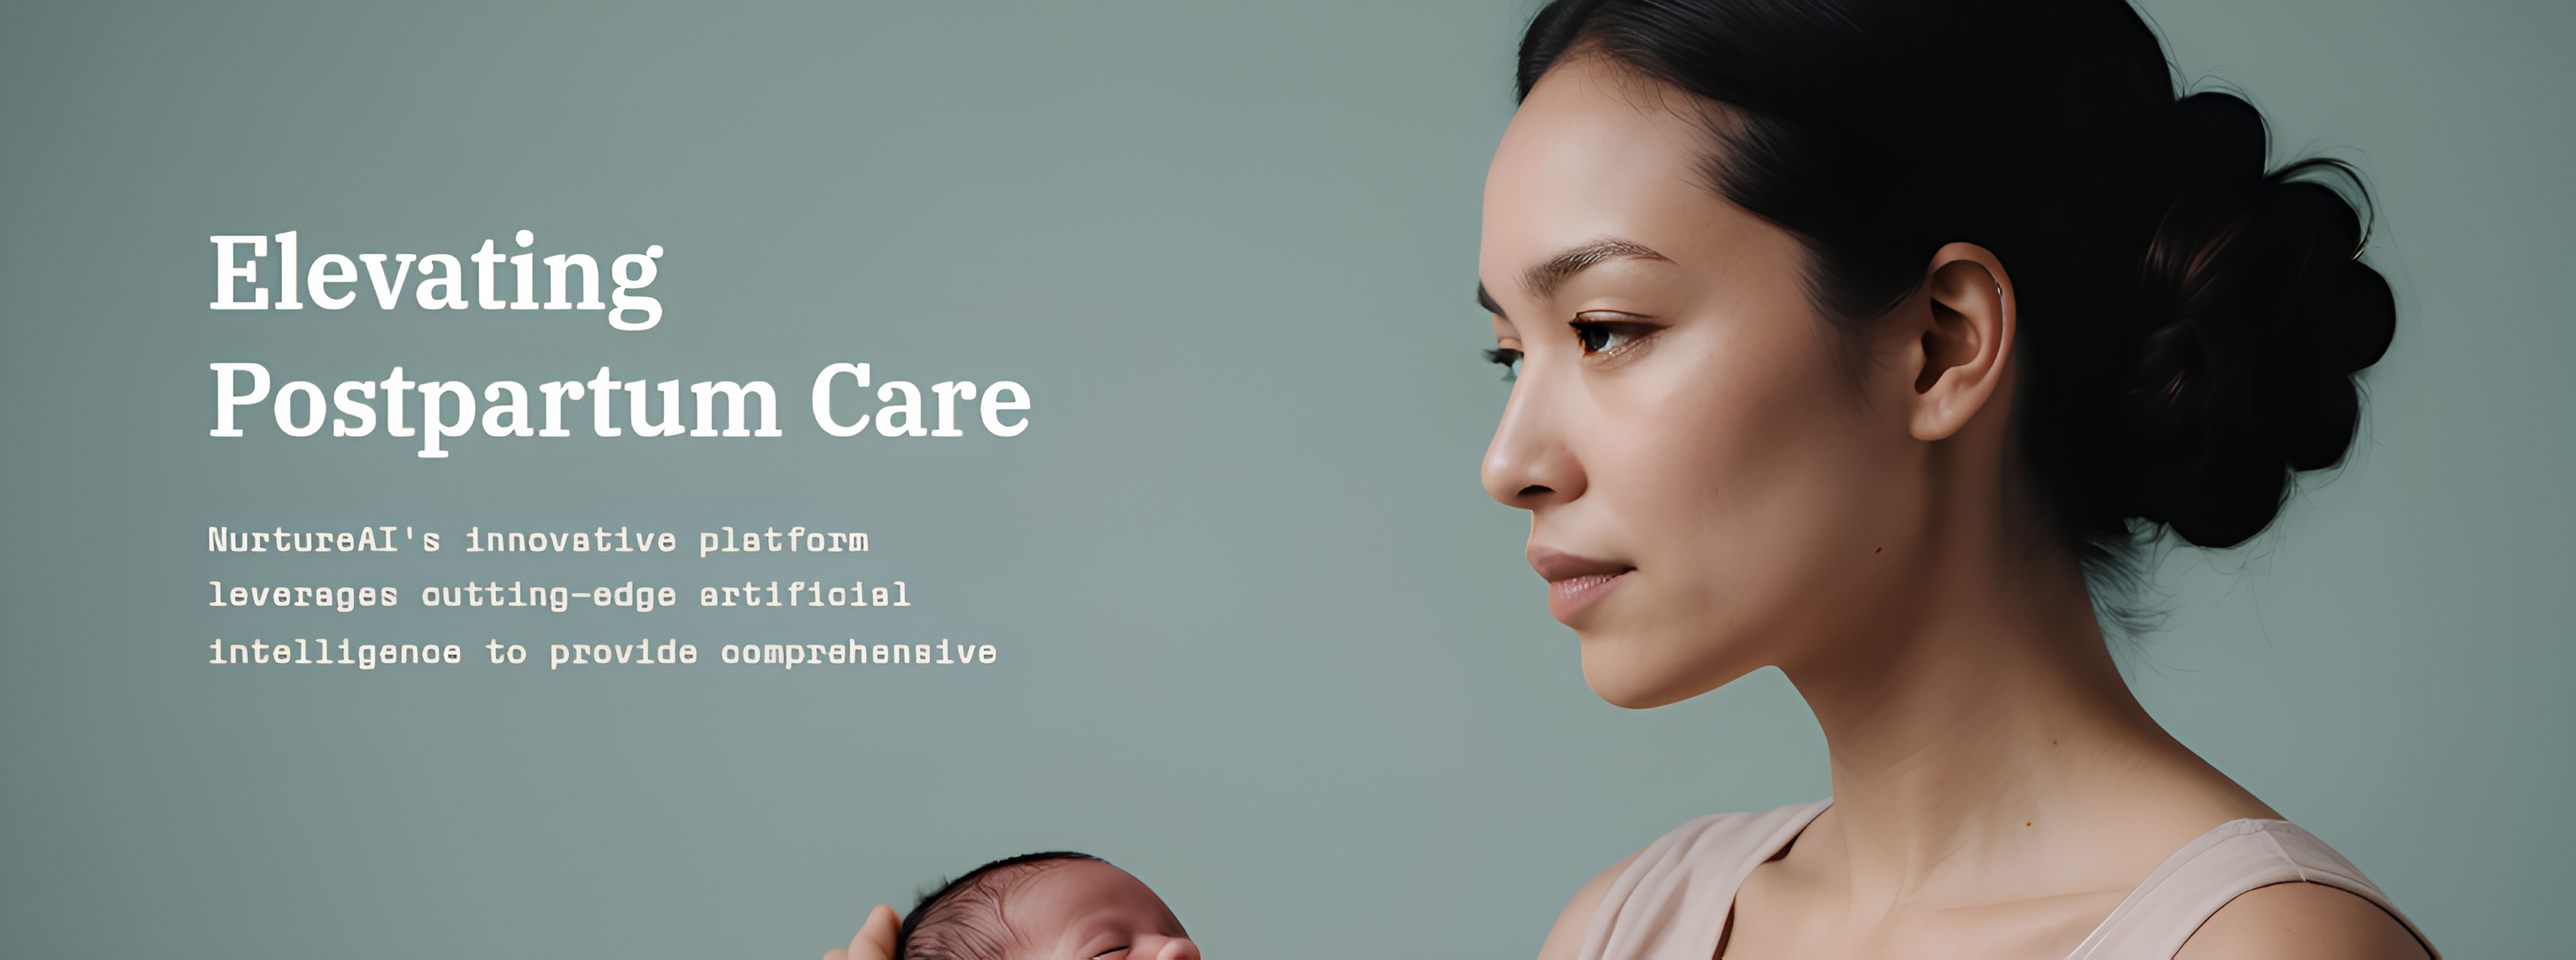
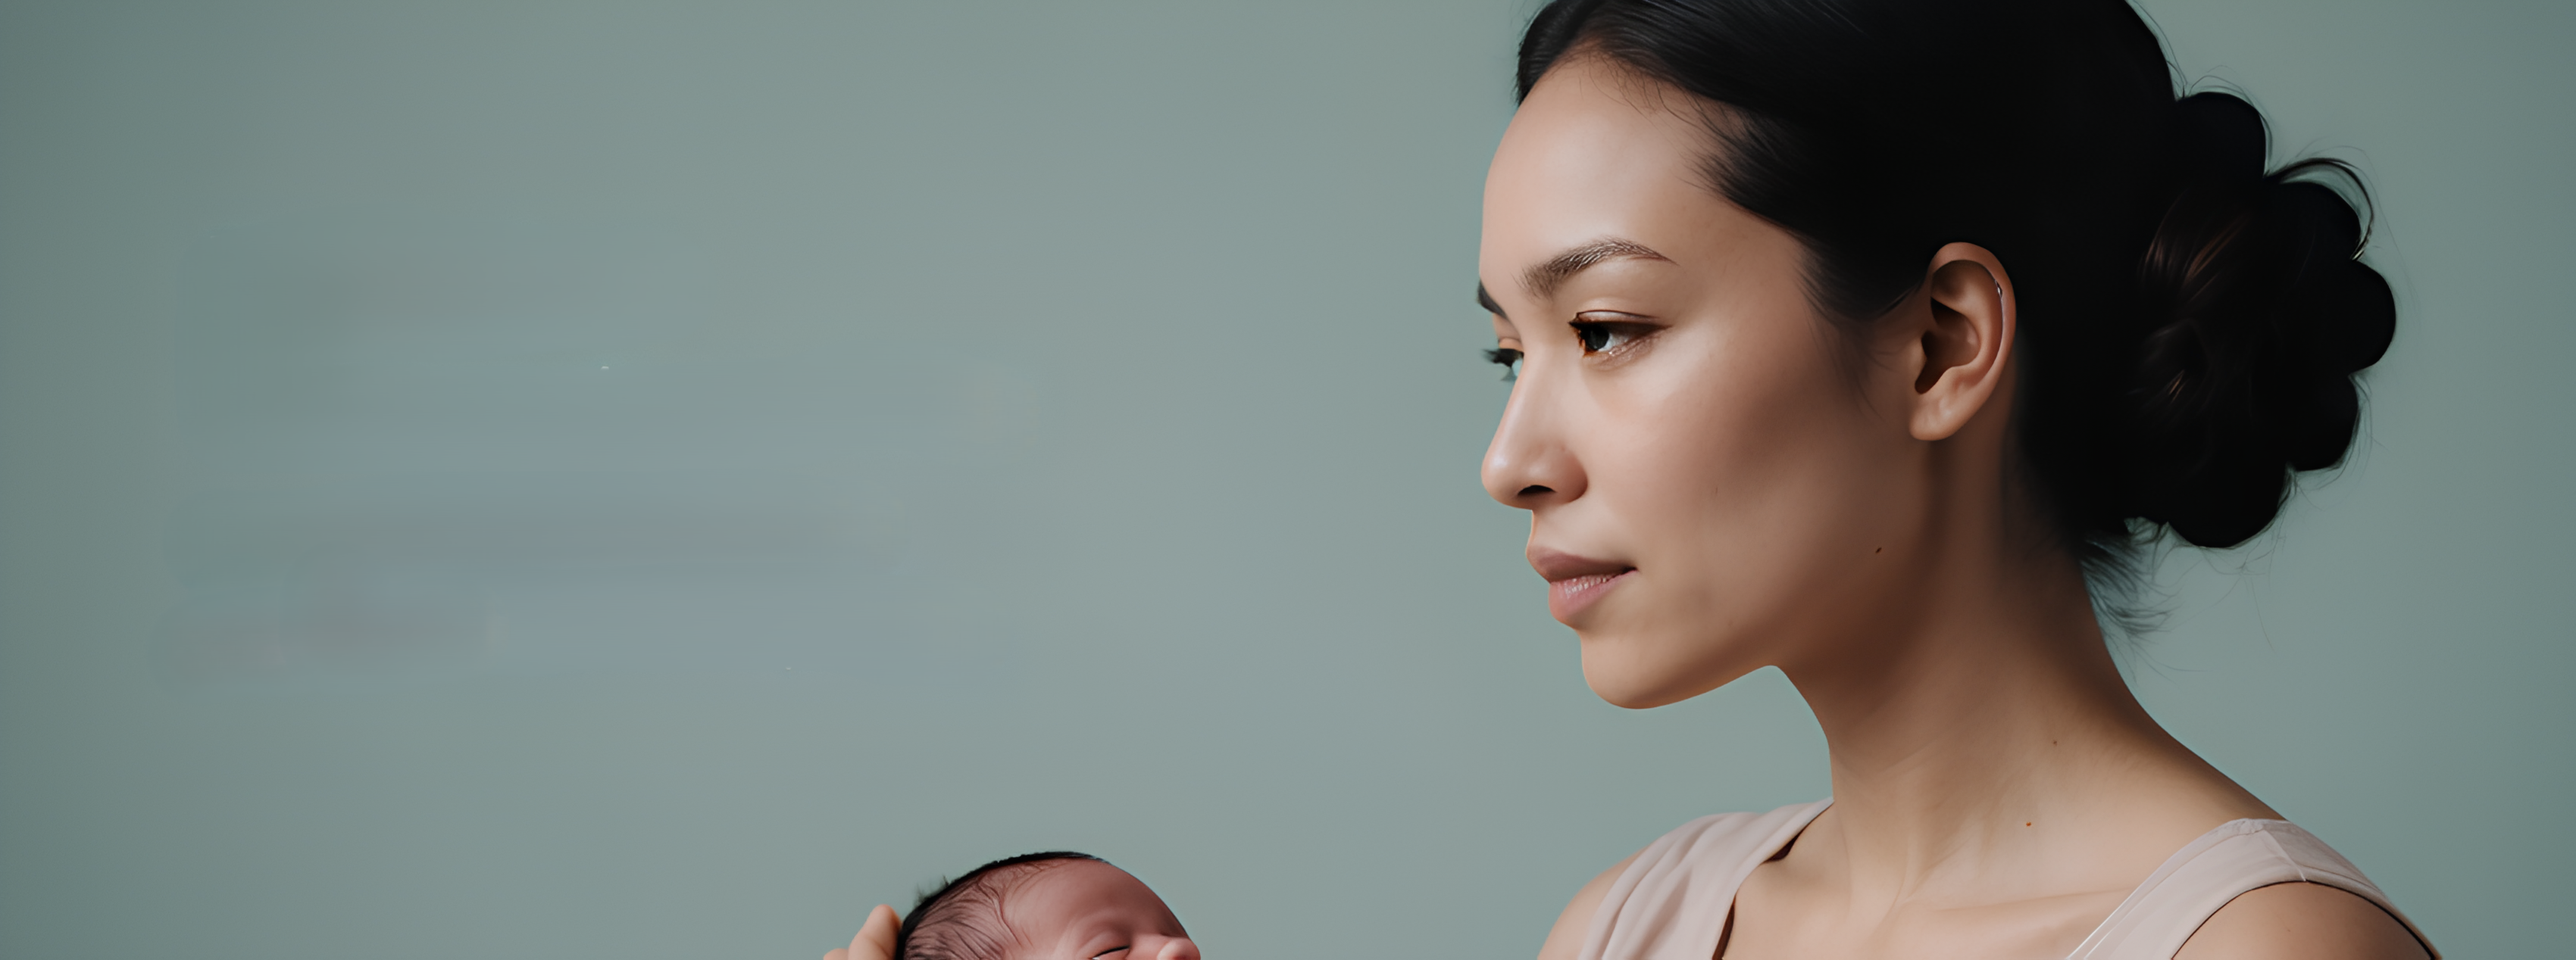
updated website

Changed region(s): [[0.0624, 0.5536, 0.4053, 0.7074], [0.0624, 0.3691, 0.4053, 0.4921], [0.0624, 0.2461, 0.2806, 0.3383]]

diff --git a/Website/templates/index.html b/Website/templates/index.html
@@ -197,7 +197,9 @@
             color: #fff;
             text-decoration: none;
         }
-        
+        .complete-section {
+            padding-top: 80px
+        }
         @media (max-width: 1024px) {
             .feature, .testimonial {
                 flex-basis: calc(50% - 20px);
@@ -228,6 +230,67 @@
             font-weight: 600;
             font-style: normal;
             }
+        .float{
+            float: left;
+            width: 50%;
+        }
+        .section-container {
+            max-width: 1200px;
+            margin: 0 auto;
+            padding: 60px 20px;
+            text-align: center;
+        }
+        .section-container h1 {
+            font-size: 36px;
+            font-weight: bold;
+            color: #3e3e3e;
+            margin-bottom: 20px;
+        }
+        .section-container p {
+            font-size: 16px;
+            color: #6b6b6b;
+            margin-bottom: 50px;
+        }
+        .cards-container {
+            display: flex;
+            justify-content: space-between;
+            gap: 20px;
+        }
+        .card {
+            background-color: white;
+            border-radius: 10px;
+            padding: 40px 20px;
+            width: 30%;
+            box-shadow: 0 4px 8px rgba(0, 0, 0, 0.1);
+            transition: transform 0.3s ease;
+        }
+        .card:hover {
+            transform: translateY(-10px);
+        }
+        .card img {
+            width: 60px;
+            margin-bottom: 20px;
+        }
+        .card h3 {
+            font-size: 22px;
+            color: #3e3e3e;
+            margin-bottom: 15px;
+        }
+        .card p {
+            font-size: 16px;
+            color: #6b6b6b;
+            line-height: 1.5;
+        }
+        @media (max-width: 768px) {
+            .cards-container {
+                flex-direction: column;
+                align-items: center;
+            }
+            .card {
+                width: 80%;
+                margin-bottom: 20px;
+            }
+        }
     </style>
 </head>
 <body>
@@ -292,11 +355,50 @@
         </div>
     </section>
     
-    <img src="/static/images/section.png" alt="Mother with baby" width="100%" style="padding-top: 80px; ;">
-
-    <div class="container" style="background-color: #fbf9ee;">
-        <img src="/static/images/Finalesection.png" alt="Mother with baby" width="100%" style="padding-top: 80px; ;">
+    <div class="complete-section">
+        <div style="position: relative; text-align: left; color: white;">
+            <img src="/static/images/section.png" alt="Mother with baby" width="100%">
+            <div style="position: absolute; top: 25%; left: 10%; ">
+                <h2 class="playfair-display-font" style="font-size: xx-large;">Elevating Postpartum Care</h3><br>
+                <div class="description" style="font-size: larger;line-height: 90%;">
+                <p>Our AI-driven approach ensures comprehensive support </p><br>
+                <p>during your postpartum journey, addressing both physical </p><br>
+                <p>and emotional needs.</p>
+                </div>
+            </div>
+        </div>
+        <!-- <img src="/static/images/section.png" alt="Mother with baby" width="100%" > -->
     </div>
+    <section class="section-container">
+        <h1>Elevating Postpartum Care with AI-Driven Solutions</h1>
+        <p>NurtureAI's innovative platform leverages the power of artificial intelligence to provide comprehensive screening and support for postpartum health.</p>
+        
+        <div class="cards-container">
+            <!-- Card 1 -->
+            <div class="card">
+                <img src="/static/images/icon.png" alt="Icon 1">
+                <h3>Embrace the Future</h3>
+                <p>At maternEASE, we believe that every mother deserves access to the most advanced care and support.</p>
+                <p>Unlock Your Postpartum</p>
+            </div>
+
+            <!-- Card 2 -->
+            <div class="card">
+                <img src="/static/images/icon.png" alt="Icon 2">
+                <h3>Empowering</h3>
+                <p>maternEASE's comprehensive approach combines the power of artificial intelligence with compassionate care.</p>
+                <p>Discover Your Postpartum</p>
+            </div>
+
+            <!-- Card 3 -->
+            <div class="card">
+                <img src="/static/images/icon.png" alt="Icon 3">
+                <h3>Revolutionizing</h3>
+                <p>maternEASE's cutting-edge platform leverages the latest advancements in AI to provide transformative care.</p>
+                <p>Embrace Your Postpartum</p>
+            </div>
+        </div>
+    </section>
 
     <footer>
         <div class="container">
@@ -309,8 +411,7 @@
                     <h3>Quick Links</h3>
                     <ul>
                         <li><a href="#home">Home</a></li>
-                        <li><a href="#about">About</a></li>
-                        <li><a href="#services">Services</a></li>
+                        <li><a href="/ppd-test">Take test</a></li>
                         <li><a href="#contact">Contact</a></li>
                     </ul>
                 </div>

diff --git a/README.md b/README.md
@@ -1,1 +1,66 @@
 # IBM-Datathon-2024
+
+
+# maternEASE
+
+It's a web application which is used for empowering maternal mental wellbeing using AI
+
+## Problem Statement
+
+Peripartum Depression (PPD) affects 1 in 7 mothers during or after pregnancy, but many go undiagnosed due to stigma and a lack of accessible resources. This untreated condition can lead to a range of emotional, physical, and developmental issues that affect both the mother and child, causing lasting harm if not addressed in time.
+
+Current solutions often fall short, failing to offer personalized and ongoing support after a diagnosis. As a result, many mothers are left to navigate this challenging period alone, which increases the risk of long-term consequences for their mental and physical health.
+
+## Problem Solution
+
+An AI-powered system can detect early signs of Peripartum Depression (PPD) through a simple self-assessment process. By using advanced algorithms, the system helps identify potential symptoms before they escalate, allowing for timely recognition and intervention.
+
+Once signs of PPD are detected, the system offers personalized, real-time support through tailored advice, coping strategies, and access to professional help. This ensures that mothers receive the guidance they need, specifically addressing their unique challenges and emotional state.
+
+The platform is designed to be easy to use, ensuring continuous assistance throughout the peripartum period. It provides a seamless and accessible experience, empowering mothers to get the support they need, right when they need it.
+
+## Tech Stack
+
+**Client:** Gradio, Html, Css, Js
+
+**Server:** Linux Z, Flask(gunicorn)
+
+**Machine Learning:** TensorFlow, Gemini(Google Generative AI) - 1.5 flash
+
+## Installation:
+
+1. Clone the github repo
+
+```sh
+git clone https://github.com/erenYeager98/Datathon-maternEase.git
+```
+
+2. Go to the directory `Website` and install the requirements
+
+```sh
+cd Website
+pip insall -r requirements.txt
+```
+
+3. Run the `app.py` to run the Server
+
+```sh
+python3 app.py
+```
+
+## Demo
+
+Checkout this youtube video [https://youtu.be/J_yzwJIambA](https://youtu.be/J_yzwJIambA)
+
+## Environment Variables
+
+To run this project, you will need to add the following environment variables to your .ipynb file
+
+`GEMINI_API_KEY`
+
+## Authors
+
+- [Sanjay Ragavendar](https://www.github.com/sanjayragavendar)
+- [Aldrin Lijo](https://github.com/aldrinlijo04)
+- [Dinesh Kumar](https://github.com/erenyeager98)
+- [Medhamythri](https://github.com/medhamythri)
